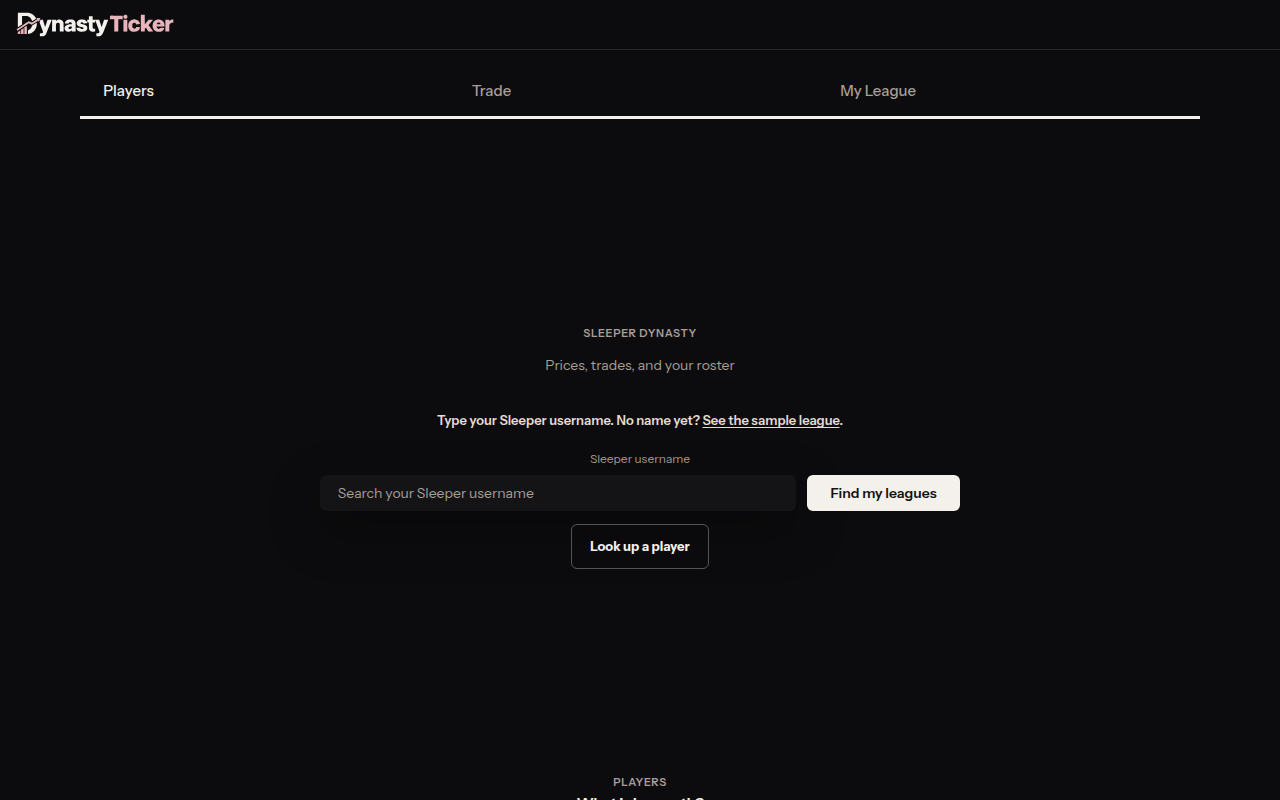
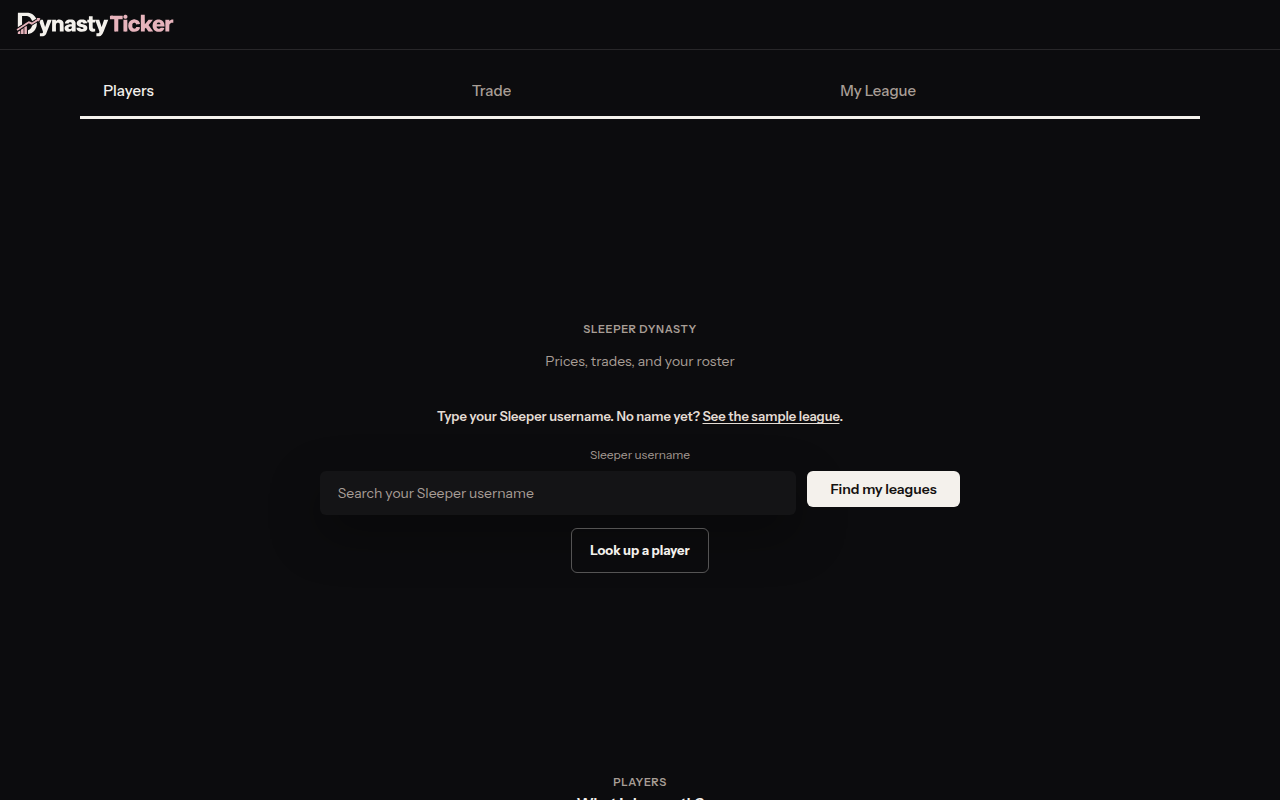
Give controls a real 44px hit box.
Inputs are 44px tall and stay 16px on iOS. The hit slop is measured from the padding edge, chip rows get a gap so they do not overlap, and font files cache for a year.

diff --git a/tests/density-tokens.test.js b/tests/density-tokens.test.js
@@ -44,11 +44,12 @@ test("density tokens load before the desk styles and the fonts stay on this orig
   assert.match(styles, /\.ranks-facts dd \{[^}]*font-weight:\s*700/);
   assert.doesNotMatch(styles, /font-weight:\s*(800|900)/);
   const product = readDocs("product.css");
-  assert.match(product, /inset:\s*-4px/);
-  assert.match(product, /inset:\s*-8px 0/);
+  assert.match(product, /min\(0px, calc\(\(100% - var\(--tap-min\)\) \/ 2\)\)/);
   assert.match(product, /\.mobile-chrome \{[^}]*background:\s*var\(--bg\)/);
   assert.match(product, /header#mobile-chrome \{[^}]*background-color:\s*var\(--bg\)/);
   assert.doesNotMatch(product, /\.mobile-chrome \{[^}]*88%/);
+  const headers = readFileSync(join(docs, "_headers"), "utf8");
+  assert.match(headers, /\/fonts\/\*\.woff2[\s\S]*Cache-Control:\s*public,\s*max-age=31536000,\s*immutable/);
   assert.match(styles, /--font-display:\s*var\(--font-ui\)/);
   assert.match(styles, /font-size:\s*var\(--fs-body\)/);
   assert.match(styles, /font-size:\s*var\(--fs-h1\)/);
@@ -141,7 +142,24 @@ function fixtureHtml() {
     <button id="home-btn" class="ghost-btn" type="button">Close</button>
     <button id="add-trade" class="ghost-btn" type="button">Add to trade</button>
     <button id="desk-room" class="phone-desk-room" type="button">Room</button>
-    <button id="ranks-chip" class="ranks-chip" type="button">QB</button>
+    <input class="ranks-search" id="player-search" type="search" aria-label="Search players" />
+    <div class="ranks-toolbar">
+      <div class="ranks-filters" id="pos-row">
+        <button id="ranks-chip" class="ranks-chip" type="button">All</button>
+        <button class="ranks-chip" type="button">QB</button>
+      </div>
+      <div class="ranks-filters" id="format-row">
+        <button class="ranks-chip" type="button">Superflex</button>
+        <button class="ranks-chip" type="button">1QB</button>
+      </div>
+    </div>
+    <div class="sample-banner">
+      <button type="button" id="sample-banner-find">Find my leagues</button>
+    </div>
+    <select data-change="lens-roster" id="lens-roster"><option>Roster</option></select>
+    <button type="button" id="weekly-help-btn" class="weekly-help-btn">?</button>
+    <p class="pick-mock-note">Board <button type="button" class="inline-link" id="mock-link">Full board</button></p>
+    <span class="player-face player-face-sm" id="headshot"></span>
     <details class="workspace-panel"><summary id="own-summary">Ownership history</summary></details>
     <details class="league-id-fallback"><summary id="league-summary">Have a league ID or URL instead?</summary></details>
     <select id="me-select"><option>Team</option></select>
@@ -171,6 +189,7 @@ const MEASURE = `(() => {
   const row = document.querySelector(".ranks-row");
   const hitOf = (el) => {
     const r = el.getBoundingClientRect();
+    const cs = getComputedStyle(el);
     const pseudo = getComputedStyle(el, "::before");
     const raw = (side) => Number.parseFloat(pseudo[side]) || 0;
     const grow = (side) => {
@@ -178,10 +197,23 @@ const MEASURE = `(() => {
       return value < 0 ? -value : 0;
     };
     const live = pseudo.content !== "none" && pseudo.content !== "normal" && pseudo.position === "absolute";
+    const borderY = (Number.parseFloat(cs.borderTopWidth) || 0) + (Number.parseFloat(cs.borderBottomWidth) || 0);
+    const borderX = (Number.parseFloat(cs.borderLeftWidth) || 0) + (Number.parseFloat(cs.borderRightWidth) || 0);
+    const pseudoHeight = live ? (r.height - borderY) + grow("top") + grow("bottom") : r.height;
+    const pseudoWidth = live ? (r.width - borderX) + grow("left") + grow("right") : r.width;
+    const height = Math.max(r.height, pseudoHeight);
+    const width = Math.max(r.width, pseudoWidth);
+    const top = Math.min(r.top, r.top + (Number.parseFloat(cs.borderTopWidth) || 0) - (live ? grow("top") : 0));
+    const left = Math.min(r.left, r.left + (Number.parseFloat(cs.borderLeftWidth) || 0) - (live ? grow("left") : 0));
     return {
-      height: r.height + (live ? grow("top") + grow("bottom") : 0),
-      width: r.width + (live ? grow("left") + grow("right") : 0),
+      height,
+      width,
       visual: r.height,
+      visualWidth: r.width,
+      top,
+      left,
+      bottom: top + height,
+      right: left + width,
     };
   };
   const hits = {};
@@ -203,12 +235,39 @@ const MEASURE = `(() => {
     "page-tab",
     "room-tab",
     "team-trade",
+    "sample-banner-find",
+    "weekly-help-btn",
+    "mock-link",
+    "lens-roster",
+    "player-search",
   ]) {
     const el = document.getElementById(id);
     hits[id] = hitOf(el);
   }
   button.focus({ focusVisible: true });
   const focusOutline = styleOf(button).outlineWidth;
+  const short = [];
+  for (const el of document.querySelectorAll("button, a, input, select, textarea, summary")) {
+    const cs = getComputedStyle(el);
+    if (cs.display === "none" || cs.visibility === "hidden") continue;
+    const hit = hitOf(el);
+    if (hit.visual < 1 && hit.visualWidth < 1) continue;
+    const tooShort = hit.height < 43.4;
+    const narrow = hit.visualWidth < 44 && hit.width < 43.4;
+    if (tooShort || narrow) {
+      short.push(el.id || el.className || el.tagName);
+    }
+  }
+  const rowHits = (id) => [...document.querySelectorAll("#" + id + " button.ranks-chip")].map(hitOf);
+  let chipOverlap = 0;
+  for (const a of rowHits("pos-row")) {
+    for (const b of rowHits("format-row")) {
+      const oy = Math.min(a.bottom, b.bottom) - Math.max(a.top, b.top);
+      const ox = Math.min(a.right, b.right) - Math.max(a.left, b.left);
+      if (oy > 0 && ox > 0) chipOverlap = Math.max(chipOverlap, oy);
+    }
+  }
+  const headshot = box(document.querySelector("#headshot"));
   let maxFont = 0;
   for (const el of document.querySelectorAll("*")) {
     const size = px(styleOf(el).fontSize);
@@ -254,6 +313,9 @@ const MEASURE = `(() => {
     mutedOnBg: contrast(root.getPropertyValue("--muted").trim(), root.getPropertyValue("--bg").trim()),
     sansReady: document.fonts.check('14px "Instrument Sans"'),
     chromeBg: styleOf(document.querySelector("#mobile-chrome")).backgroundColor,
+    short,
+    chipOverlap,
+    headshot: headshot.width,
   };
 })()`;
 
@@ -408,8 +470,9 @@ test("at 390px body, h1, number, controls, and rows use the density sizes", asyn
     assert.equal(box.numXl, "24px");
     assert.ok(box.maxFont <= 24, `number max ${box.maxFont}`);
     assert.ok(Math.abs(box.buttonHeight - 36) < 0.6, `button height ${box.buttonHeight}`);
-    assert.ok(Math.abs(box.inputHeight - 36) < 0.6, `input height ${box.inputHeight}`);
-    assert.ok(Math.abs(box.rowHeight - 40) < 0.6, `row height ${box.rowHeight}`);
+    assert.ok(box.inputHeight >= 44, `input height ${box.inputHeight}`);
+    assert.ok(Math.abs(box.rowHeight - 44) < 0.6, `row height ${box.rowHeight}`);
+    assert.ok(Math.abs(box.headshot - 40) < 0.6, `headshot ${box.headshot}`);
     assert.equal(box.inputFont, "16px");
     assert.match(box.bodyFamily, /Instrument Sans/);
     assert.match(box.h1Family, /Instrument Sans/);
@@ -420,15 +483,19 @@ test("at 390px body, h1, number, controls, and rows use the density sizes", asyn
     assert.equal(box.chromeBg, "rgb(12, 12, 14)");
     const squares = ["mobile-rail-toggle", "mobile-home-btn", "mobile-rail-close"];
     for (const id of Object.keys(box.hits)) {
-      assert.ok(box.hits[id].height >= 44, `${id} hit height ${box.hits[id].height}`);
+      assert.ok(box.hits[id].height >= 43.5, `${id} hit height ${box.hits[id].height}`);
       if (squares.includes(id)) {
-        assert.ok(box.hits[id].width >= 44, `${id} hit width ${box.hits[id].width}`);
+        assert.ok(box.hits[id].width >= 43.5, `${id} hit width ${box.hits[id].width}`);
       }
     }
     const desk = await measureAt(bin, htmlPath, 1280, false);
     assert.equal(desk.innerWidth, 1280);
-    for (const id of ["page-tab", "room-tab", "team-trade", "landing-find-btn", "ranks-chip", "me-select"]) {
-      assert.ok(desk.hits[id].height >= 44, `${id} desk hit ${desk.hits[id].height}`);
+    for (const id of ["page-tab", "room-tab", "team-trade", "landing-find-btn", "ranks-chip", "me-select", "sample-banner-find", "weekly-help-btn", "mock-link", "lens-roster"]) {
+      assert.ok(desk.hits[id].height >= 43.5, `${id} desk hit ${desk.hits[id].height}`);
+    }
+    for (const shot of [box, desk]) {
+      assert.deepEqual(shot.short, [], `short targets ${shot.short.join(", ")}`);
+      assert.ok(shot.chipOverlap <= 0.6, `chip overlap ${shot.chipOverlap}`);
     }
   } finally {
     rmSync(dir, { recursive: true, force: true });

diff --git a/docs/product.css b/docs/product.css
@@ -1156,14 +1156,18 @@ button.ranks-row {
   font-variant-numeric: tabular-nums;
 }
 
-.player-face-sm,
-.player-face-md,
 .avatar-sm,
-.avatar-md,
-.ranks-headshot,
-button.ranks-shelf-item .player-face {
+.avatar-md {
   width: var(--avatar);
   height: var(--avatar);
+}
+
+.player-face-sm,
+.player-face-md,
+.ranks-headshot,
+button.ranks-shelf-item .player-face {
+  width: 40px;
+  height: 40px;
 }
 
 button.ranks-chip,
@@ -1209,20 +1213,21 @@ details.workspace-panel > summary,
   min-height: var(--btn-h);
 }
 
+/* ::before is positioned on the padding edge, so a 1px border made a
+   -4px inset land at 42 and a -8px chip inset land at 41. Size the
+   pseudo to --tap-min from that edge. It does not grow a target that
+   is already tall enough. */
 .mobile-icon-btn::before,
-.mobile-rail-close::before {
-  content: "";
-  position: absolute;
-  inset: -4px;
-  background: none;
-  pointer-events: auto;
-}
-
+.mobile-rail-close::before,
 .selected-token-remove::before,
-button.weekly-help-close::before {
+button.weekly-help-close::before,
+button.weekly-help-btn::before {
   content: "";
   position: absolute;
-  inset: -8px;
+  left: min(0px, calc((100% - var(--tap-min)) / 2));
+  right: min(0px, calc((100% - var(--tap-min)) / 2));
+  top: min(0px, calc((100% - var(--tap-min)) / 2));
+  bottom: min(0px, calc((100% - var(--tap-min)) / 2));
   background: none;
   pointer-events: auto;
 }
@@ -1230,34 +1235,80 @@ button.weekly-help-close::before {
 #landing-find-btn::before,
 #find-leagues-btn::before,
 #load-league-btn::before,
+#sticky-find-btn::before,
+.sample-banner > button::before,
+.sample-find-btn::before,
 .ghost-btn::before,
 button.ghost-btn::before,
 .page-tab::before,
 .room-tab::before,
+button.ranks-chip::before,
+.week-chips button::before,
+.segmented button::before,
+button.inline-link::before,
+a.inline-link::before,
 details.workspace-panel > summary::before,
 .league-id-fallback summary::before {
   content: "";
   position: absolute;
-  inset: -4px 0;
-  background: none;
-  pointer-events: auto;
-}
-
-button.ranks-chip::before,
-.week-chips button::before,
-.segmented button::before {
-  content: "";
-  position: absolute;
-  inset: -8px 0;
+  left: 0;
+  right: 0;
+  top: min(0px, calc((100% - var(--tap-min)) / 2));
+  bottom: min(0px, calc((100% - var(--tap-min)) / 2));
   background: none;
   pointer-events: auto;
 }
 
 .phone-desk-room,
 .phone-desk-page,
-.team-card-trade {
+.team-card-trade,
+button.room-tab,
+button.ranks-row {
   min-height: var(--tap-min);
   padding-block: 0;
+}
+
+.sample-banner > button,
+.sample-find-btn,
+#sample-find-btn,
+#landing-find-btn,
+#find-leagues-btn,
+#load-league-btn,
+#sticky-find-btn {
+  position: relative;
+}
+
+button.weekly-help-btn,
+button.inline-link,
+a.inline-link {
+  position: relative;
+}
+
+button.inline-link,
+a.inline-link {
+  display: inline-block;
+}
+
+input,
+.ranks-search,
+.calc-search,
+.landing-search-row input,
+body:not(.league-loaded):not(.board-tools-live) .landing-search-row input,
+body.league-loaded .league-module input,
+body.board-tools-live .league-module input,
+body.league-loaded #me-select,
+body.board-tools-live #me-select,
+select,
+select[data-change="lens-roster"] {
+  min-height: var(--tap-min);
+}
+
+.ranks-toolbar {
+  gap: calc(var(--tap-min) - var(--chip-h) + 2px);
+}
+
+.ranks-filters {
+  row-gap: calc(var(--tap-min) - var(--chip-h) + 2px);
 }
 
 .phone-desk-room::before,
